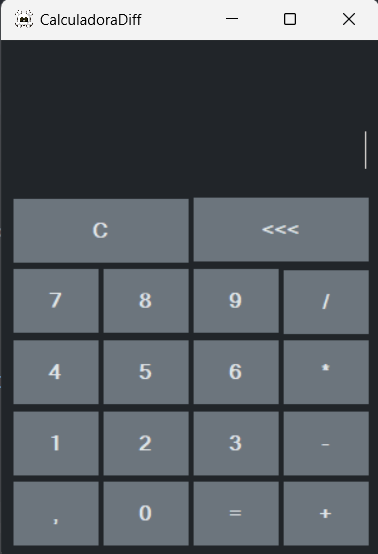
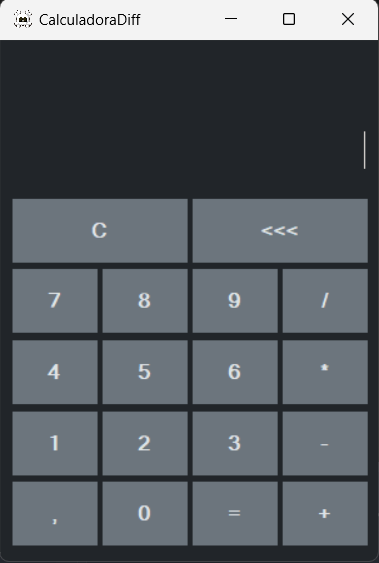
modificando imagem assets

diff --git a/calculadora2/Form1.Designer.cs b/calculadora2/Form1.Designer.cs
@@ -232,7 +232,7 @@ namespace Calculadora
             // btnDividir
             // 
             this.btnDividir.Font = new System.Drawing.Font("Microsoft Sans Serif", 12F, System.Drawing.FontStyle.Bold, System.Drawing.GraphicsUnit.Point, ((byte)(0)));
-            this.btnDividir.Location = new System.Drawing.Point(301, 226);
+            this.btnDividir.Location = new System.Drawing.Point(301, 225);
             this.btnDividir.Name = "btnDividir";
             this.btnDividir.Size = new System.Drawing.Size(90, 63);
             this.btnDividir.TabIndex = 19;
@@ -243,7 +243,7 @@ namespace Calculadora
             // btnApagar
             // 
             this.btnApagar.Font = new System.Drawing.Font("Microsoft Sans Serif", 12F, System.Drawing.FontStyle.Bold, System.Drawing.GraphicsUnit.Point, ((byte)(0)));
-            this.btnApagar.Location = new System.Drawing.Point(205, 155);
+            this.btnApagar.Location = new System.Drawing.Point(205, 156);
             this.btnApagar.Name = "btnApagar";
             this.btnApagar.Size = new System.Drawing.Size(186, 63);
             this.btnApagar.TabIndex = 20;
